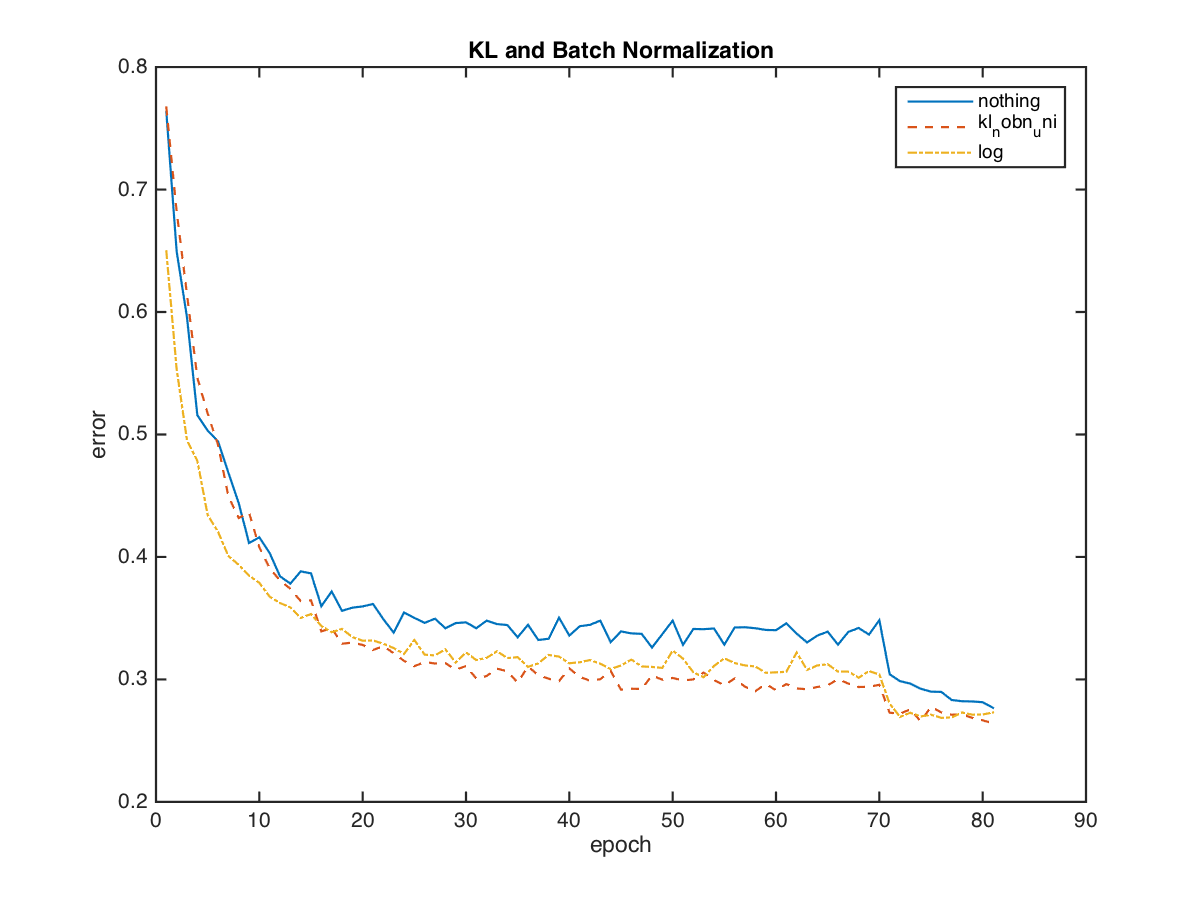
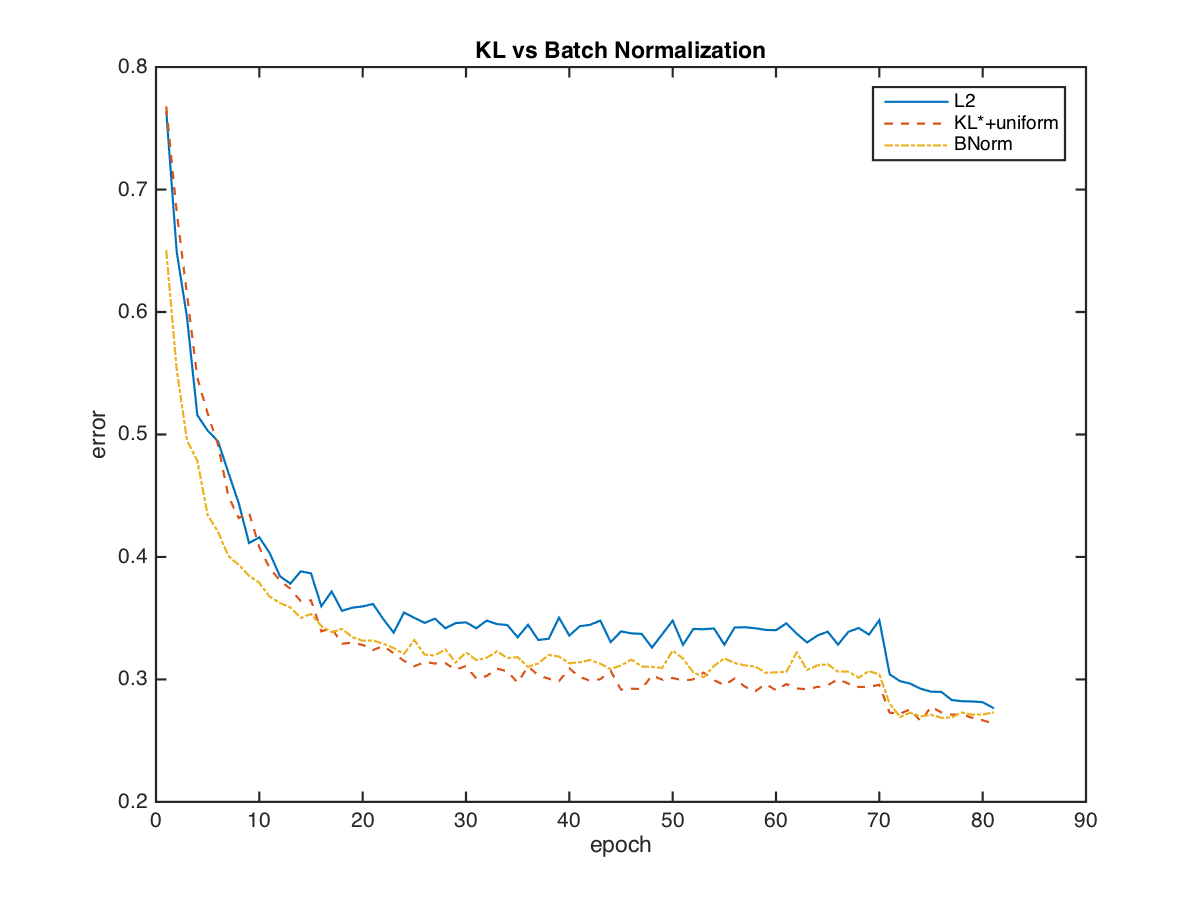
rename

Changed region(s): [[0.7092, 0.0933, 0.8942, 0.1867], [0.37, 0.0311, 0.6475, 0.0622]]

diff --git a/run_plot.m b/run_plot.m
@@ -3,14 +3,14 @@ close all;
 clearvars;
 
 % load errors
-kl = load_error('kl');
-kl_l2 = load_error('kl-l2');
-kl_nobn = load_error('kl-noBN');
-kl_nobn_uni = load_error('kl-noBN-uni');
-kl_uni = load_error('kl-uni');
-log = load_error('log');
-loge = load_error('loge');
-nothing = load_error('nothing');
+kl = load_error('kl'); % KL*+BNorm+weighted
+kl_l2 = load_error('kl-l2'); % KL*+BNorm+weighted+L2
+kl_nobn = load_error('kl-noBN'); % KL*+weighted
+kl_nobn_uni = load_error('kl-noBN-uni'); % KL*+uniform
+kl_uni = load_error('kl-uni'); % KL*+BNorm+uniform
+log = load_error('log'); % BNorm
+loge = load_error('loge'); % BNorm+uniform
+nothing = load_error('nothing'); % L2
 
 % set saved file path
 savedir = './figures/';
@@ -28,10 +28,10 @@ y3 = loge;
 
 figure
 plot(x,y1,x,y2,'--', x, y3, '-.')
-title('Loss functions')
+title('Loss Functions Comparison')
 xlabel('epoch')
 ylabel('error')
-legend('kl_l2','log', 'loge')
+legend('KL*+BNorm+weighted+L2','BNorm', 'BNorm+uniform')
 saveas(gcf,[savedir 'loss.png'])
 
 % --------------------------------------------------------------------
@@ -44,10 +44,10 @@ y3 = log;
 
 figure
 plot(x,y1,x,y2,'--', x, y3, '-.')
-title('KL and Batch Normalization')
+title('KL vs Batch Normalization')
 xlabel('epoch')
 ylabel('error')
-legend('nothing','kl_nobn_uni', 'log')
+legend('L2','KL*+uniform', 'BNorm')
 saveas(gcf,[savedir 'kl_bn.png'])
 
 % --------------------------------------------------------------------
@@ -59,10 +59,10 @@ y2 = kl_uni;
 
 figure
 plot(x,y1,x,y2,'--')
-title('Uniform')
+title('Class Weighted vs Uniform')
 xlabel('epoch')
 ylabel('error')
-legend('kl','kl_uni')
+legend('KL*+BNorm+weighted','KL*+BNorm+uniform')
 saveas(gcf,[savedir 'uni.png'])
 
 % --------------------------------------------------------------------
@@ -74,8 +74,8 @@ y2 = kl_l2;
 
 figure
 plot(x,y1,x,y2,'--')
-title('L2 Regulation')
+title('Effect of L2 Regulation')
 xlabel('epoch')
 ylabel('error')
-legend('kl','kl_l2')
+legend('KL*+BNorm+weighted','KL*+BNorm+weighted+L2')
 saveas(gcf,[savedir 'l2.png'])
